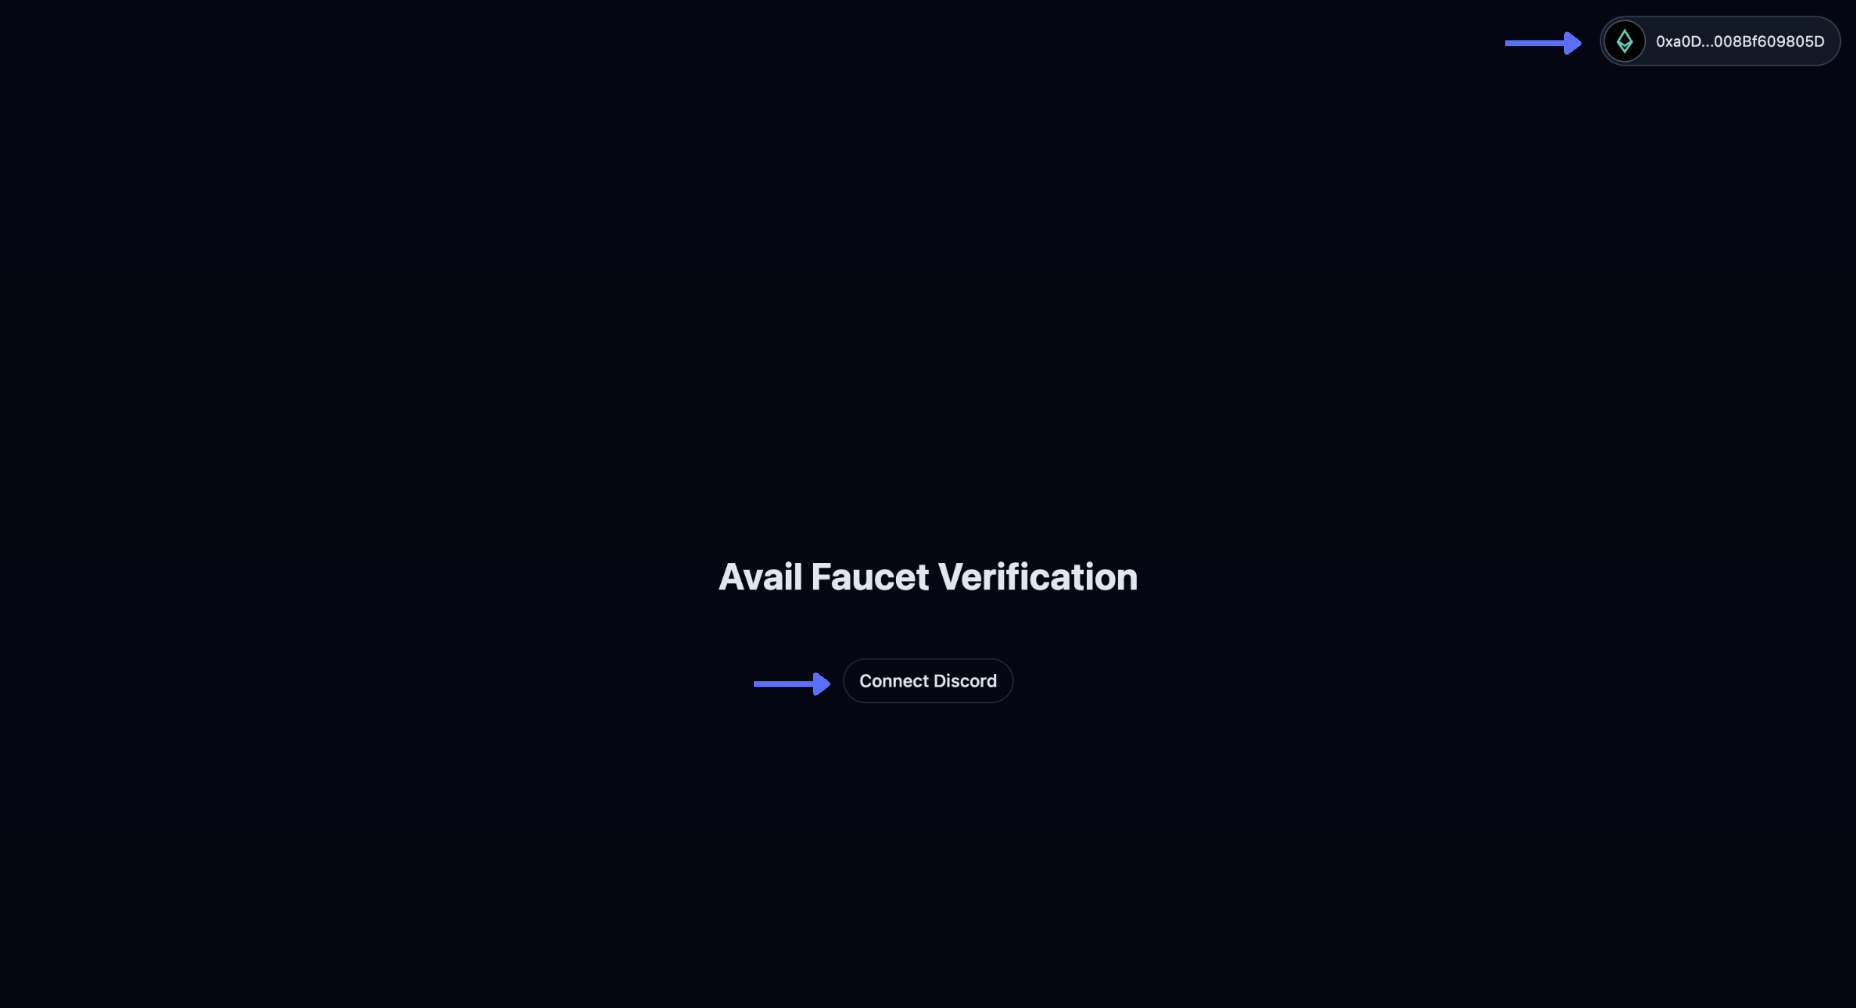
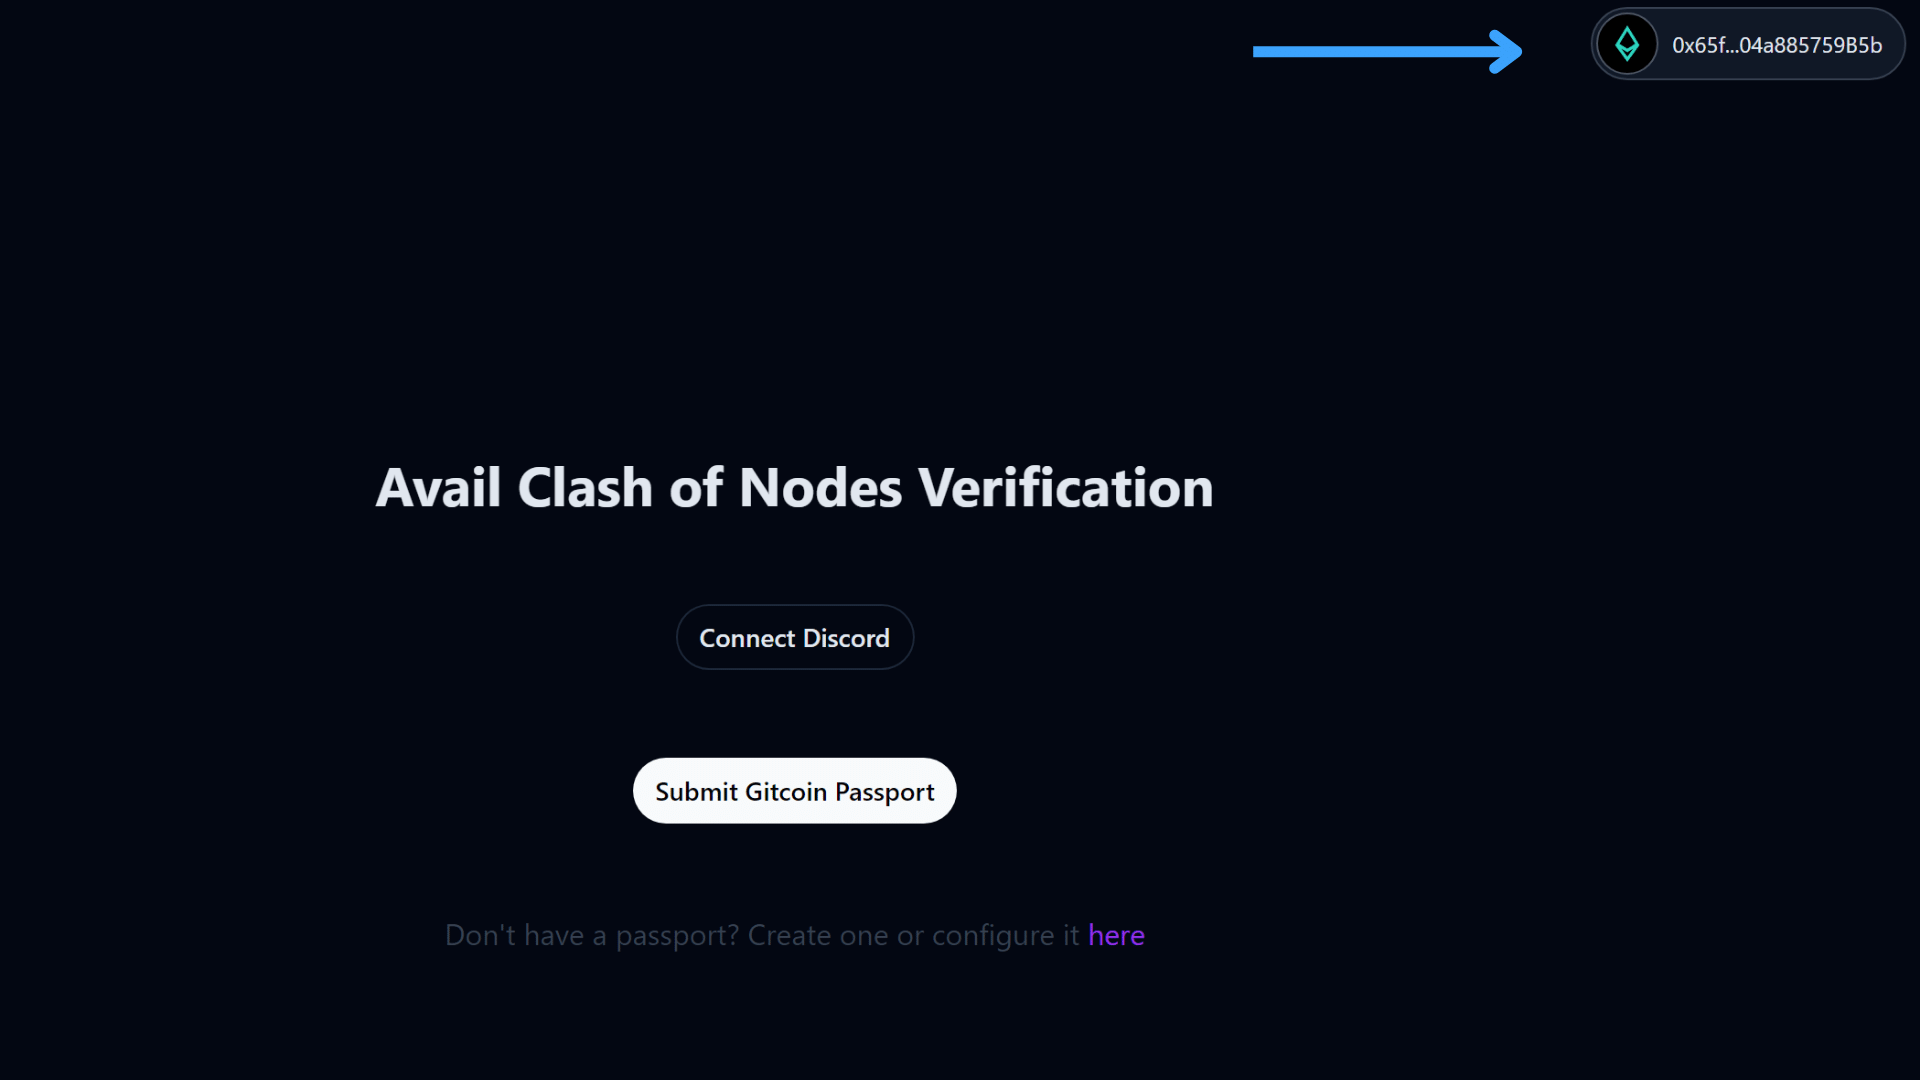
Pushing new faucet docs without testing

diff --git a/docs/about/faucet.md b/docs/about/faucet.md
@@ -13,24 +13,84 @@ keywords:
 image: https://docs.availproject.org/img/avail/AvailDocs.png
 ---
 
-You can use the Discord Faucet to get Avail (AVL) tokens on the Goldberg testnet.
-
-1. Make sure you have already [Created an account](/about/accounts.md) to receive funds.
-
-2. Join the [Avail Discord](https://discord.gg/y6fHnxZQX8) and
-   complete the verification step. You can confirm your verification status from the `#faucet-access-2` channel.
-
-3. Navigate to the `#goldberg-faucet` channel and issue the following
-   command: `/deposit <your address> `. This is what it should look like:
-
- <p align="center"><img src="/img/faucet/DepositCommand.png" alt="Deposit Command" width="80%"/></p>
-
-Your address will be deposited 5 AVL token once the status changes to
-`Complete`. You may request AVL every 3 hours.
+An automated faucet on Discord has been configured to distribute Avail tokens (AVL) for the Goldberg testnet.
 
 :::note Please note
 
-- The `/deposit` command has a cool down period. You can use it only once every 3 hours.
+- The verification step is **mandatory for all users.**
 - The faucet is designed to distribute small amounts of AVL for testing purposes, not large quantities for validator bonding or similar activities.
+- We appreciate that the verification process may be inconvenient for some users. However, it is necessary to prevent spam and ensure a fair distribution of test tokens. As time goes we will be looking into ways to make the process easier.
 
 :::
+
+## Account Verification Process
+
+To prevent spam and ensure a fair distribution of test tokens, Avail has introduced a mandatory verification process based on [<ins>Gitcoin Passport</ins>](https://passport-verifier.avail.tools/). This process links your wallet address to your Discord account. If you are not already a member of the Avail community, please join the [<ins>Avail Discord server</ins>](https://discord.gg/y6fHnxZQX8) first.
+
+:::note Please note
+
+Gitcoin only supports the validation of EVM based addresses. You can still use your substrate based address to receive tokens from the faucet once you have completed the verification process.
+
+:::
+
+Follow these steps to complete the verification:
+
+1. Go to the [<ins>Avail Faucet Verification page</ins>](https://passport-verifier.avail.tools/).
+
+2. Click on the "Connect Wallet" button in the center of the page. You can choose from several wallet providers. For this demonstration, we will be using [<ins>SubWallet</ins>](https://www.subwallet.app/).
+
+   <p align="center"><img src="/img/faucet/1.png" alt="Connect Wallet" width="80%"/></p>
+
+3. A window will appear listing various wallet options. When prompted, verify and approve the connection request.
+
+   <p align="center"><img src="/img/faucet/2.png" alt="Wallet Options" width="80%"/></p>
+
+4. Ensure you don't have any pending connections, or else you won't be able to connect your wallet address.
+If the connection is successful, you will be able to see your linked account on the top right-hand corner of the page.
+
+   <p align="center"><img src="/img/faucet/4.png" alt="Connected Wallet" width="80%"/></p>
+
+5. You will then need to connect your Discord account. Click on "Connect Discord" and authorize the requested permissions.Review the message prompt and click "Authorize". Your page should now look something like this:
+
+   <p align="center"><img src="/img/faucet/5.png" alt="Discord connected" width="80%"/></p>
+
+6. Click on "Submit Gitcoin Passport" to complete the verification process.
+   
+   <p align="center"><img src="/img/faucet/5b.png" alt="Gitcoin passport submitted successfully" width="95%"/></p>
+
+7. Please note that you need a score of at least "20" to be verified. If your score is below 20, your screen will look something like this:
+
+   <p align="center"><img src="/img/faucet/5c.png" alt="Gitcoin passport submission failed " width="85%"/></p>
+
+8. You can work on your Gitcoin score from [their dashboard](https://passport.gitcoin.co/#/dashboard). You can also check out [Gitcoin docs](https://docs.passport.gitcoin.co/) for more information.
+
+9. Finally, click on the "Give role" button. This will give your linked Discord ID a role named `verified-faucet` that will allow you to use the faucet.
+
+Ensure that your Discord account is connected as it will be used in the following steps. You will also be able to see your connected Discord account that is verified on the top right-hand corner of the page.
+
+## Obtaining Test AVL Tokens from Discord
+
+
+:::note Please note
+
+- The `/deposit` command has a cooldown period. You can use it only once every 3 hours.
+
+:::
+
+After completing the account verification process, you can obtain test AVL tokens:
+
+1. In the Avail Discord, navigate to the `#goldberg-faucet` channel.
+
+2. Use the command `/deposit <your-address>` to request AVL tokens.
+
+   <p align="center"><img src="/img/faucet/6.png" alt="Verification Confirmation" width="100%"/></p>
+
+   Should you attempt to use the faucet with an unverified Discord account or a different address, you will encounter the following message.
+
+   <p align="center"><img src="/img/faucet/9.png" alt="Verification Confirmation" width="100%"/></p>
+
+   Your wallet will receive 5 AVL tokens once the transaction status is marked as `Complete`. You can request AVL tokens every 3 hours.
+
+   <p align="center"><img src="/img/faucet/8.png" alt="Transaction Complete" width="50%"/></p>
+
+If you encounter any issues, please feel free to reach out to the Avail team and greater community on Discord.
